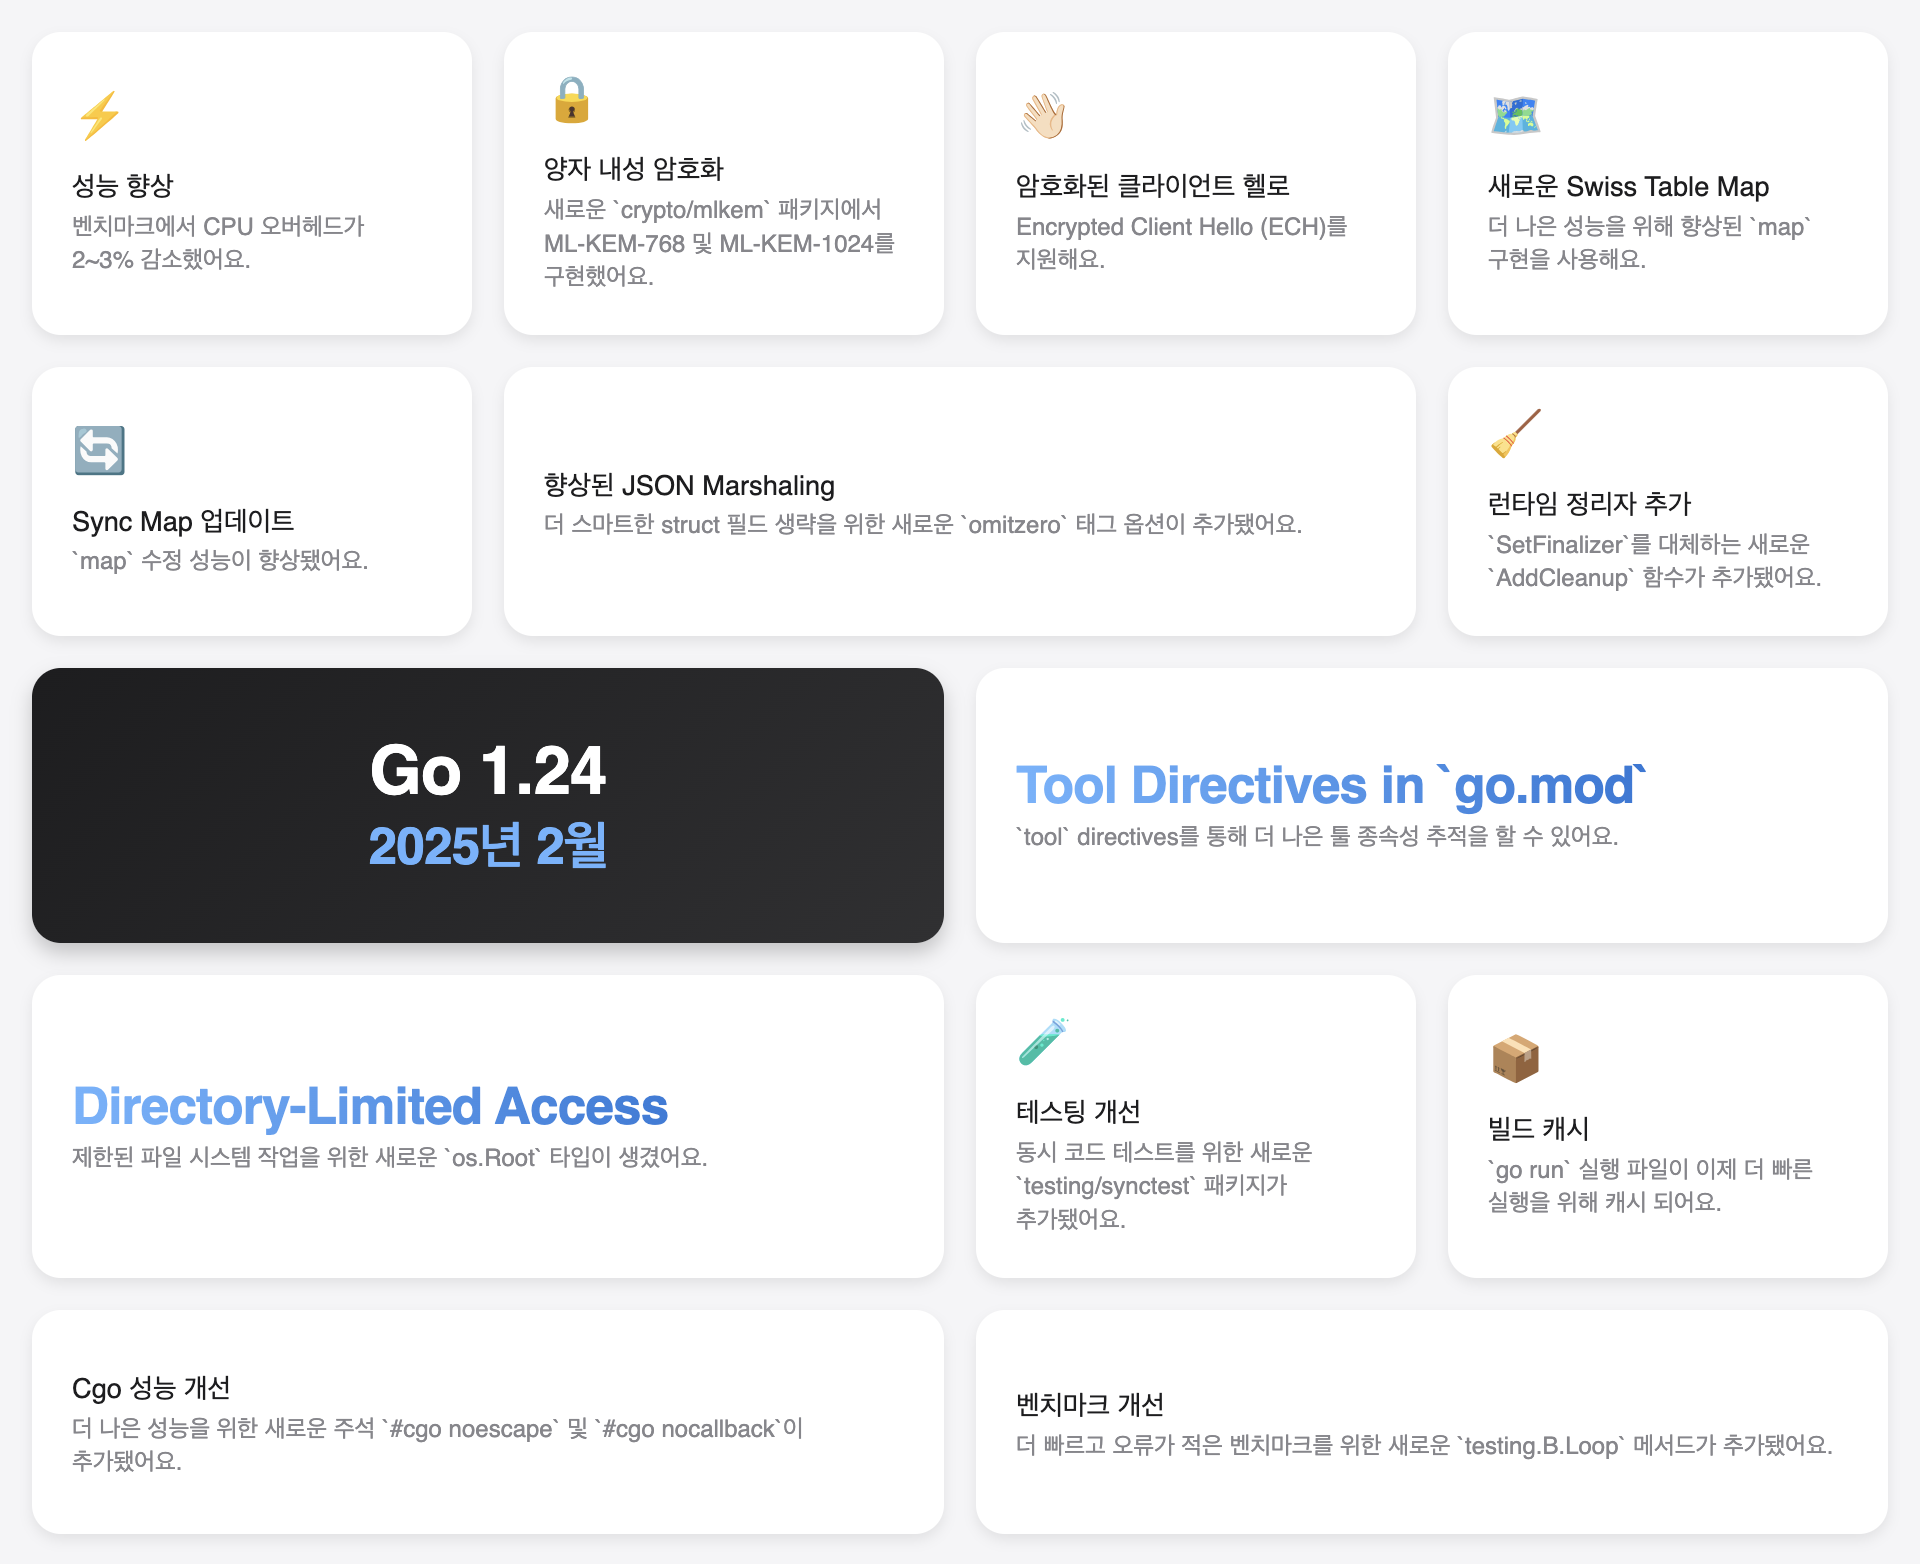
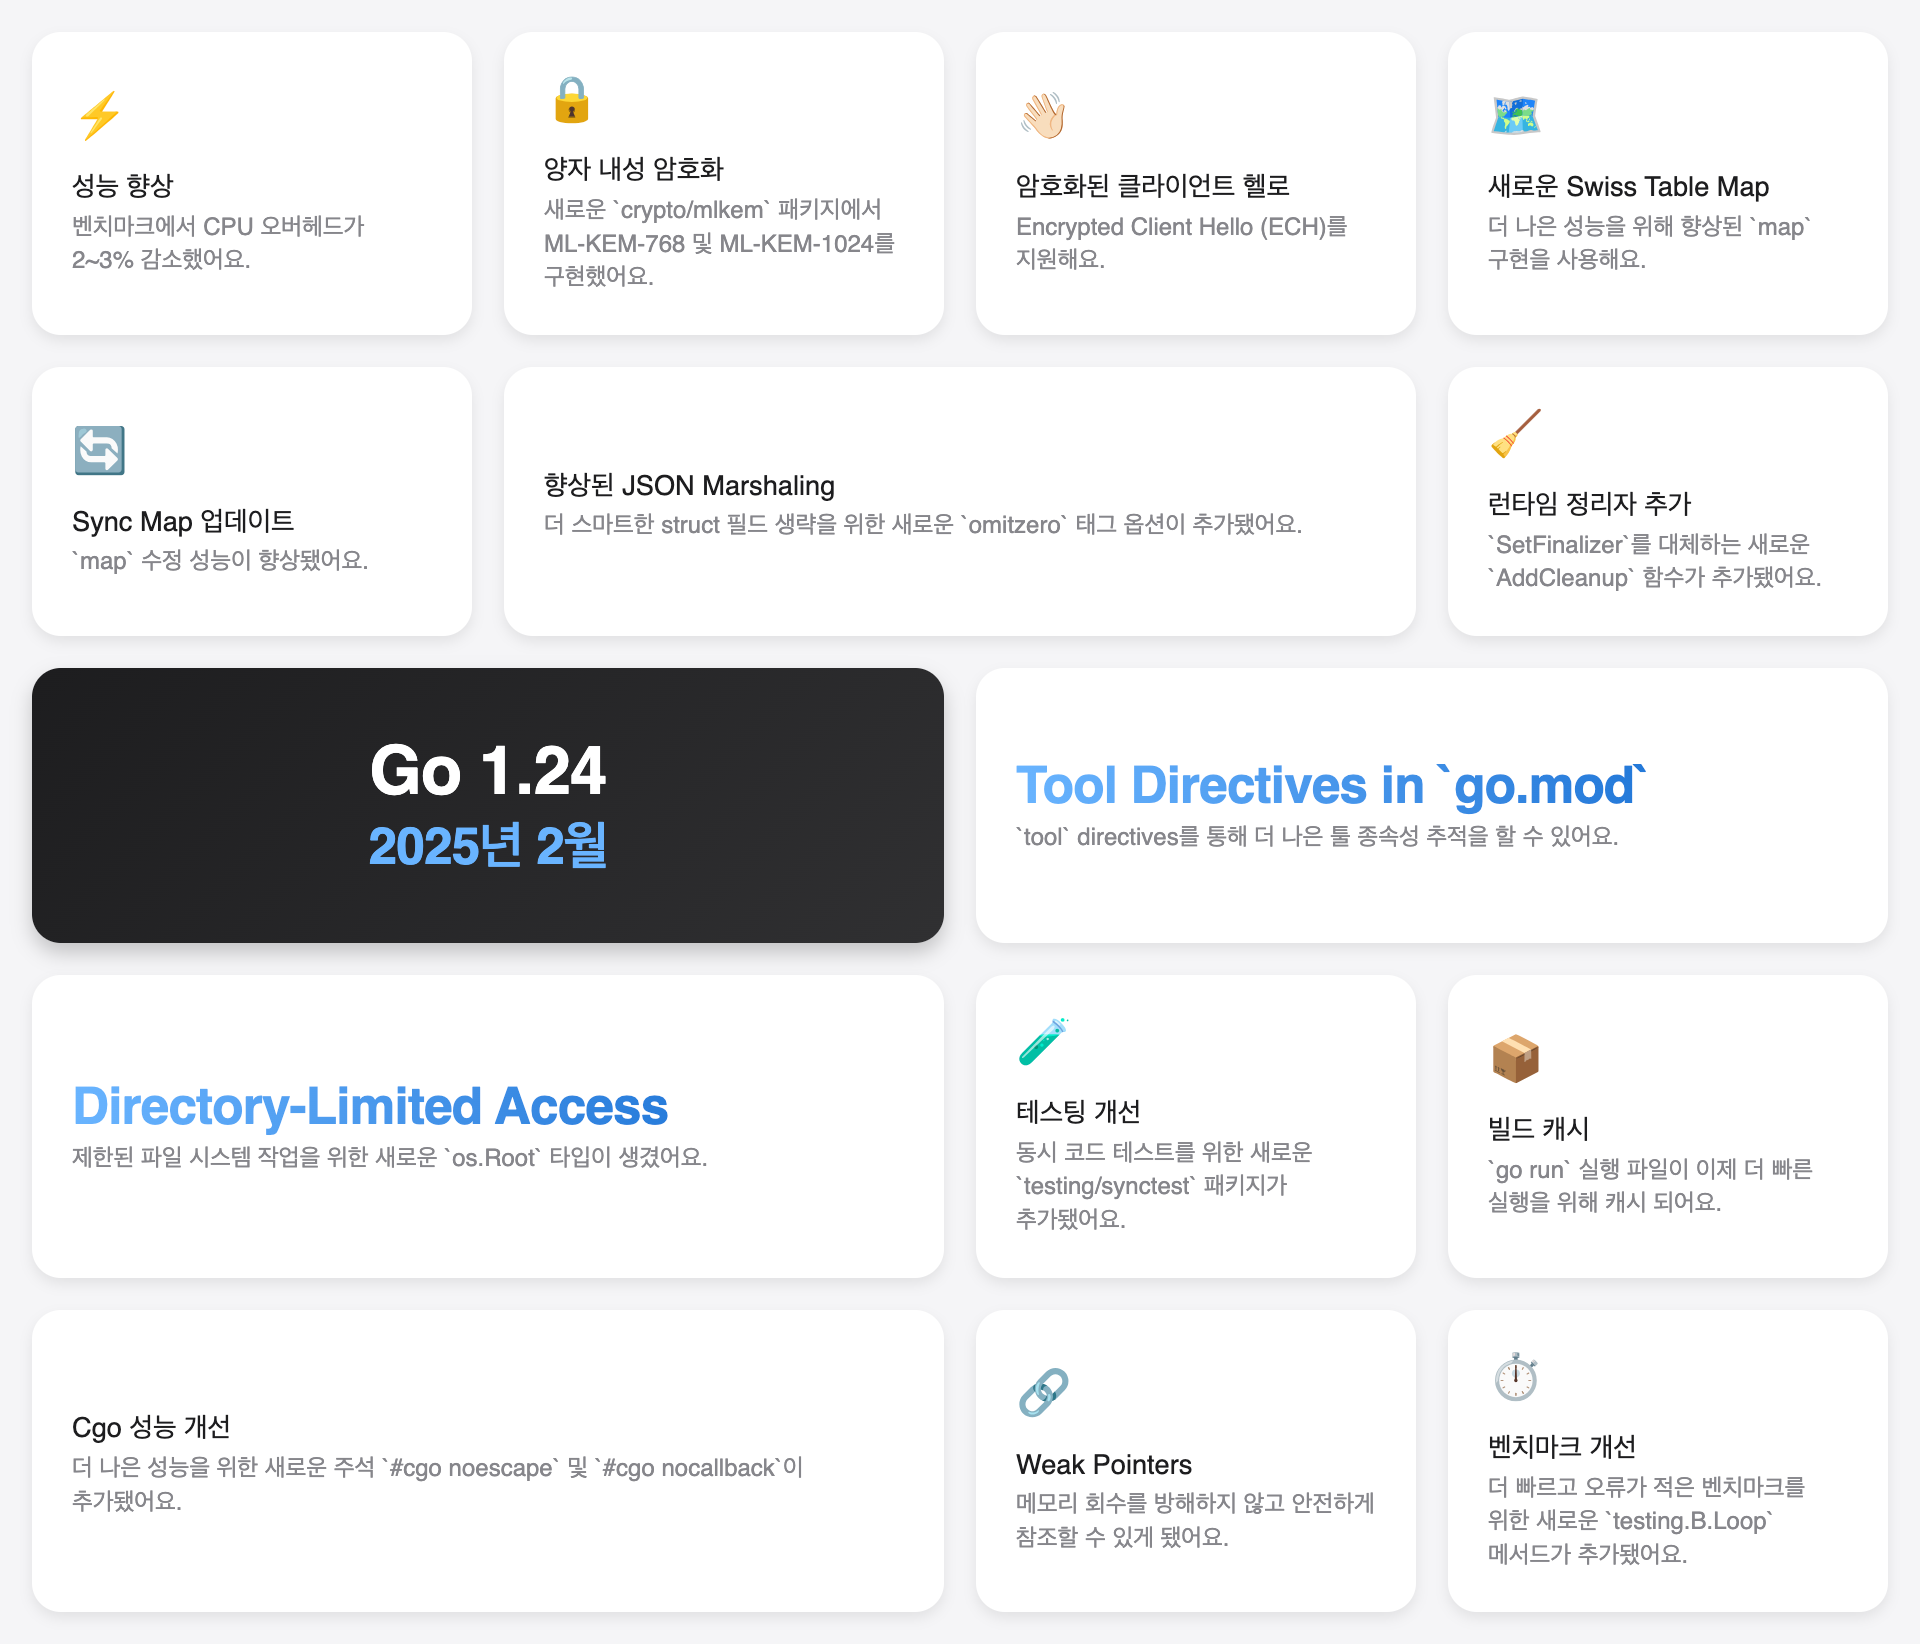
Add weak

diff --git a/go1.24/overview-ko.html b/go1.24/overview-ko.html
@@ -222,7 +222,9 @@
         <div class="spec-card">
           <div class="icon">⚡</div>
           <div class="title">성능 향상</div>
-          <div class="subtitle">벤치마크에서 CPU 오버헤드가 2~3% 감소했어요.</div>
+          <div class="subtitle">
+            벤치마크에서 CPU 오버헤드가 2~3% 감소했어요.
+          </div>
         </div>
 
         <div class="spec-card">
@@ -280,8 +282,7 @@
         <div class="spec-card wide">
           <div class="blue-text">Tool Directives in `go.mod`</div>
           <div class="subtitle">
-            `tool` directives를 통해 더 나은 툴 종속성 추적을 할 수
-            있어요.
+            `tool` directives를 통해 더 나은 툴 종속성 추적을 할 수 있어요.
           </div>
         </div>
 
@@ -312,12 +313,21 @@
         <div class="spec-card wide">
           <div class="title">Cgo 성능 개선</div>
           <div class="subtitle">
-            더 나은 성능을 위한 새로운 주석 `#cgo noescape` 및 `#cgo nocallback`이
-            추가됐어요.
+            더 나은 성능을 위한 새로운 주석 `#cgo noescape` 및 `#cgo
+            nocallback`이 추가됐어요.
           </div>
         </div>
 
-        <div class="spec-card wide">
+        <div class="spec-card">
+          <div class="icon">🔗</div>
+          <div class="title">Weak Pointers</div>
+          <div class="subtitle">
+            메모리 회수를 방해하지 않고 안전하게 참조할 수 있게 됐어요.
+          </div>
+        </div>
+
+        <div class="spec-card">
+          <div class="icon">⏱</div>
           <div class="title">벤치마크 개선</div>
           <div class="subtitle">
             더 빠르고 오류가 적은 벤치마크를 위한 새로운 `testing.B.Loop`

diff --git a/go1.24/overview.html b/go1.24/overview.html
@@ -314,7 +314,16 @@
           </div>
         </div>
 
-        <div class="spec-card wide">
+        <div class="spec-card">
+          <div class="icon">🔗</div>
+          <div class="title">Weak Pointers</div>
+          <div class="subtitle">
+            Safely reference memory without preventing reclamation
+          </div>
+        </div>
+
+        <div class="spec-card">
+          <div class="icon">⏱</div>
           <div class="title">Benchmark Improvement</div>
           <div class="subtitle">
             New testing.B.Loop method for faster, less error-prone benchmarks
